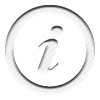
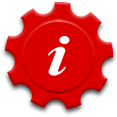
mainly visual

diff --git a/wp-content/themes/minehead-cc/style.css b/wp-content/themes/minehead-cc/style.css
@@ -1191,6 +1191,9 @@ body {
 * Minehead CC theme CSS
 *
 *****/
+body{
+	background-color: #333;
+}
 
 /*sticky-footer*/
 html, body{
@@ -1306,7 +1309,7 @@ a, a:hover, a:visited{
 }
 .branding-container{
 	
-	min-height:223px;
+	min-height:231px;
 }
 #site-logo a{
 	height:150px;
@@ -1331,7 +1334,7 @@ p.site-title{
 	float:right;
 }
 .site-content{
-	background-color: #fff;
+	background-color: rgba(255,255,255,0.9);
 	padding-top: 170px;
 	-webkit-box-shadow: 0px 0px 20px 0px rgba(0,0,0,0.75);
 	-moz-box-shadow: 0px 0px 20px 0px rgba(0,0,0,0.75);
@@ -1360,7 +1363,8 @@ p.site-title{
 }
 #iconographics{
 	min-height:120px;
-	border-top: 2px dotted gray;
+	border-top: 5px solid YELLOW;
+	text-transform: uppercase;
 
 
 }

diff --git a/wp-content/themes/minehead-cc/home-template.php b/wp-content/themes/minehead-cc/home-template.php
@@ -21,7 +21,7 @@ get_header(); ?>
 		<div class="col-1-5 mobile-col-1-2">
 			<nav class="icon-container">
 				<a href="<?php get_site_url();?>/information/">
-					<img src ="<?php echo bloginfo('template_url');?>/theme-images/information-icon.png" alt="" height="100" width="100" />
+					<img src ="<?php echo bloginfo('template_url');?>/theme-images/information-icon.png" alt="" height="117" width="117" />
 					<span>Information</span>
 				</a>
 			</nav>
@@ -29,7 +29,7 @@ get_header(); ?>
 		<div class="col-1-5 mobile-col-1-2">
 			<nav class="icon-container">
 				<a href="<?php get_site_url();?>/articles/news-and-ads/">
-					<img src ="<?php echo bloginfo('template_url');?>/theme-images/news-ads-icon.png" alt="" height="100" width="100" />
+					<img src ="<?php echo bloginfo('template_url');?>/theme-images/news-ads-icon.png" alt="" height="117" width="117" />
 					<span>News &amp; Ads</span>
 				</a>
 			</nav>
@@ -37,7 +37,7 @@ get_header(); ?>
 		<div class="col-1-5 mobile-col-1-2">
 			<nav class="icon-container">
 				<a href="<?php get_site_url();?>/articles/results/">
-					<img src ="<?php echo bloginfo('template_url');?>/theme-images/results-icon.png" alt="" height="100" width="100" />
+					<img src ="<?php echo bloginfo('template_url');?>/theme-images/results-icon.png" alt="" height="117" width="117" />
 					<span>Results</span>
 				</a>
 			</nav>
@@ -45,7 +45,7 @@ get_header(); ?>
 		<div class="col-1-5 mobile-col-1-2">
 			<nav class="icon-container">
 				<a href="<?php get_site_url();?>/links/">
-					<img src ="<?php echo bloginfo('template_url');?>/theme-images/links-icon.png" alt="" height="100" width="100" />
+					<img src ="<?php echo bloginfo('template_url');?>/theme-images/links-icon.png" alt="" height="117" width="117" />
 					<span>Useful links</span>
 				</a>
 			</nav>
@@ -53,7 +53,7 @@ get_header(); ?>
 				<div class="col-1-5 hide-on-mobile">
 			<nav class="icon-container">
 				<a href="<?php get_site_url();?>/articles/videos-and-pictures/">
-					<img src ="<?php echo bloginfo('template_url');?>/theme-images/pics-vids-icon.png" alt="" height="100" width="107" />
+					<img src ="<?php echo bloginfo('template_url');?>/theme-images/pics-vids-icon.png" alt="" height="117" width="117" />
 					<span>Pictures &amp; Videos</span>
 				</a>
 			</nav>

diff --git a/wp-content/themes/minehead-cc/header.php b/wp-content/themes/minehead-cc/header.php
@@ -45,7 +45,7 @@
 			</div>
 		</div>
 		<!-- if home, add the full width image -->
-		<div id="branding" class="branding-container" style="background: url(<?php echo bloginfo('template_url');?>/theme-images/header-bg.png);background-position: center top;">
+		<div id="branding" class="branding-container" style="background: url(<?php echo bloginfo('template_url');?>/theme-images/header-bg-ds.png);background-position: center top;">
 			<div class="grid">
 				<div class="site-branding">
 					<div class="col-2-5">
